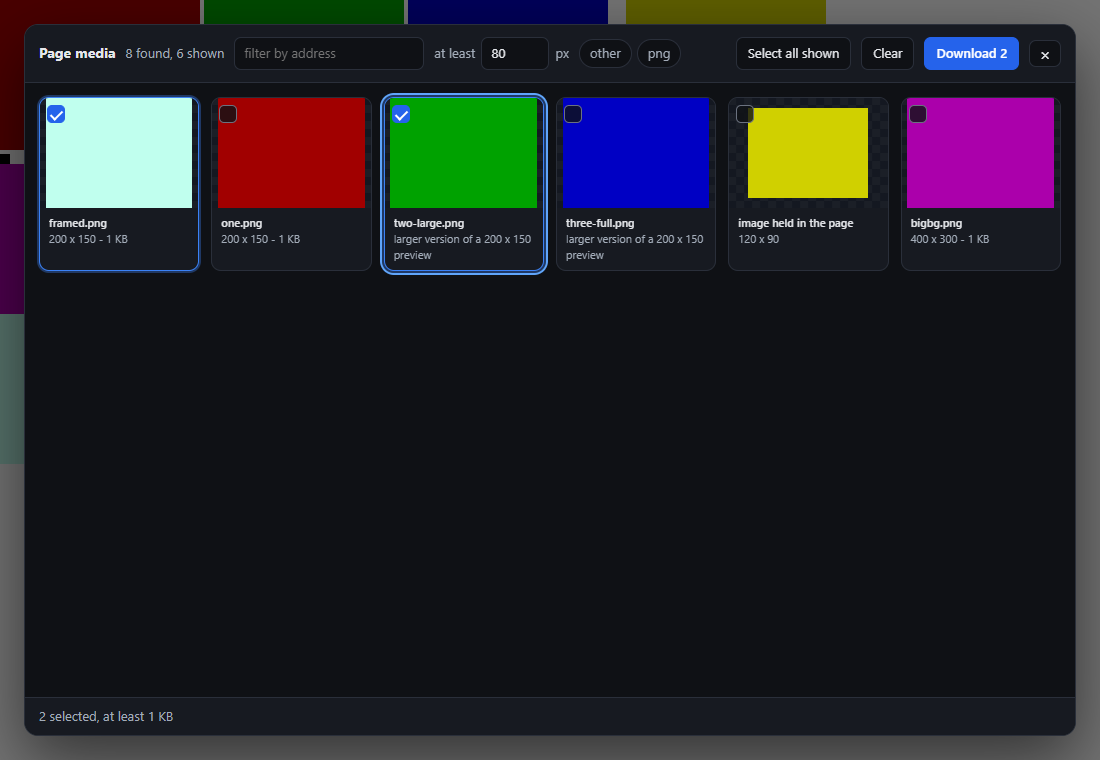
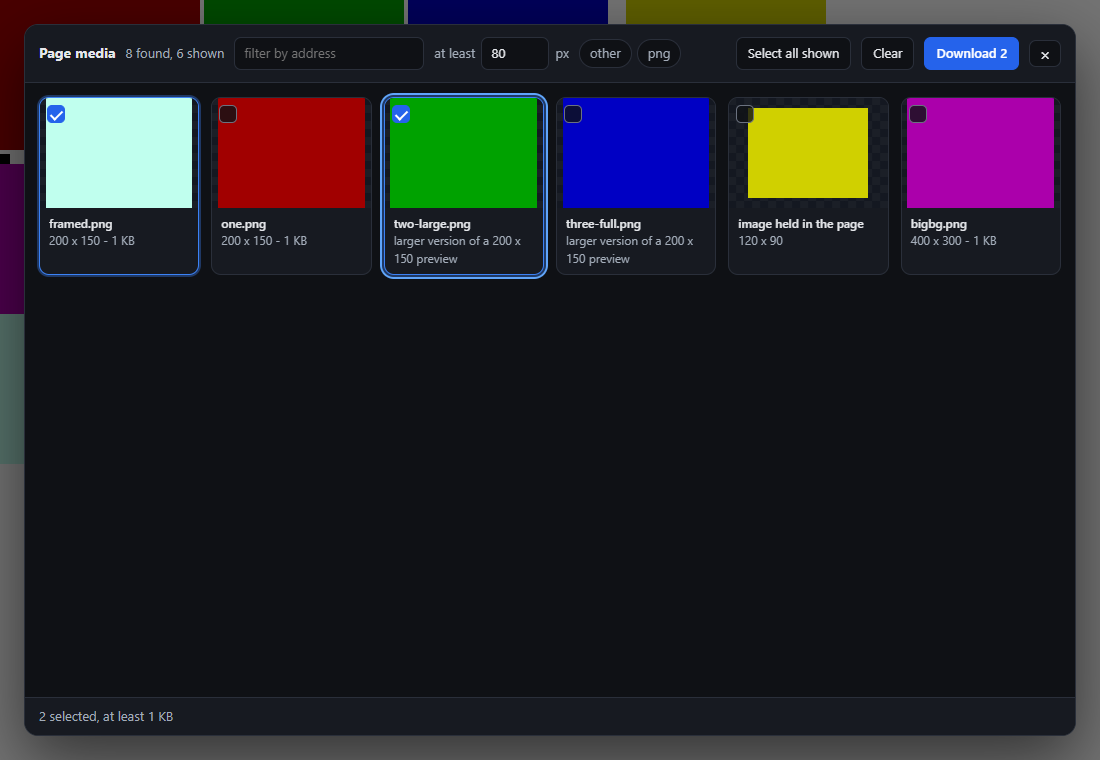
Fix the accessibility findings from a Rams design review
Rams scored the interface 88/100 with six findings, none critical. All six
are fixed and confirmed by its re-check.

- Recent-file buttons in the popup said what they do only in a tooltip. The
  action is now in the accessible name.
- The popup's file and link buttons removed their focus outline and put
  nothing in its place. They have a focus ring.
- The popup switch was labelled "Snaffle is on", which stayed true-sounding
  when it was off. It is a switch named "Snaffle"; the options checkbox reads
  "Enable Snaffle".
- The armed Reset button used a literal white for its text, which is hard to
  read on the lighter red of the dark theme. It takes its colour from the theme.
- Headings in the popup, and captions and badges in the media list, were 11px
  and 10px. Nothing is under 12px now.
- Recorder buttons had no name beyond the shortcut they show. The suggested
  fix, a fixed aria-label, would have replaced that text, and the shortcut is
  the thing a screen-reader user most needs to hear. Each is instead named by
  its trigger's title plus its own text, exposes whether it is recording, and
  the line under it is a live region, so the instructions while recording and
  any warning afterwards are announced.

The popup's cannot-run notice is an alert rather than a polite status, since
it appears with its text already set.

Static checks in the offline suite keep these from returning.

diff --git a/options.html b/options.html
@@ -18,7 +18,7 @@
     <section class="card">
       <label class="row switch">
         <input type="checkbox" id="enabled">
-        <span><strong>Snaffle is on</strong><em>Turn everything off without uninstalling.</em></span>
+        <span><strong>Enable Snaffle</strong><em>Untick to turn everything off without uninstalling.</em></span>
       </label>
     </section>
 
@@ -29,44 +29,44 @@
       <div class="trigger">
         <label class="row switch">
           <input type="checkbox" id="keyEnabled">
-          <span><strong>Save what is under the pointer, by key</strong></span>
+          <span><strong id="keyName">Save what is under the pointer, by key</strong></span>
         </label>
         <div class="recorder">
-          <button type="button" id="keyRec" class="rec" aria-describedby="keyHint">Alt + S</button>
-          <span class="hint" id="keyHint"></span>
+          <button type="button" id="keyRec" class="rec" aria-labelledby="keyName keyRec" aria-describedby="keyHint">Alt + S</button>
+          <span class="hint" id="keyHint" aria-live="polite"></span>
         </div>
       </div>
 
       <div class="trigger">
         <label class="row switch">
           <input type="checkbox" id="mouseEnabled">
-          <span><strong>Save what is under the pointer, by mouse</strong></span>
+          <span><strong id="mouseName">Save what is under the pointer, by mouse</strong></span>
         </label>
         <div class="recorder">
-          <button type="button" id="mouseRec" class="rec" aria-describedby="mouseHint">Alt + Middle click</button>
-          <span class="hint" id="mouseHint"></span>
+          <button type="button" id="mouseRec" class="rec" aria-labelledby="mouseName mouseRec" aria-describedby="mouseHint">Alt + Middle click</button>
+          <span class="hint" id="mouseHint" aria-live="polite"></span>
         </div>
       </div>
 
       <div class="trigger">
         <label class="row switch">
           <input type="checkbox" id="captureEnabled">
-          <span><strong>Screenshot the whole page</strong></span>
+          <span><strong id="captureName">Screenshot the whole page</strong></span>
         </label>
         <div class="recorder">
-          <button type="button" id="captureRec" class="rec" aria-describedby="captureHint">Alt + Shift + S</button>
-          <span class="hint" id="captureHint"></span>
+          <button type="button" id="captureRec" class="rec" aria-labelledby="captureName captureRec" aria-describedby="captureHint">Alt + Shift + S</button>
+          <span class="hint" id="captureHint" aria-live="polite"></span>
         </div>
       </div>
 
       <div class="trigger">
         <label class="row switch">
           <input type="checkbox" id="galleryEnabled">
-          <span><strong>List every image and video on the page</strong></span>
+          <span><strong id="galleryName">List every image and video on the page</strong></span>
         </label>
         <div class="recorder">
-          <button type="button" id="galleryRec" class="rec" aria-describedby="galleryHint">Alt + Shift + I</button>
-          <span class="hint" id="galleryHint"></span>
+          <button type="button" id="galleryRec" class="rec" aria-labelledby="galleryName galleryRec" aria-describedby="galleryHint">Alt + Shift + I</button>
+          <span class="hint" id="galleryHint" aria-live="polite"></span>
         </div>
       </div>
     </section>

diff --git a/test/snaffle.test.js b/test/snaffle.test.js
@@ -318,6 +318,35 @@ const { pdfFromJpeg } = lift('capture.js', 'async function pdfFromJpeg(jpeg, pxW
   });
   eq('default key bindings are distinct', new Set(sigs).size, sigs.length);
 
+  /* ------------------------------------------------------- accessibility */
+
+  // Found by a design review; kept from coming back.
+  const uiCss = ['options.css', 'popup.css', 'gallery.js', 'content.js'].map((x) => [x, read(x)]);
+  eq('no focus outline is removed without a replacement in the same rule',
+    uiCss.flatMap(([file, src]) => (src.match(/[^{}]*\{[^{}]*outline:\s*none[^{}]*\}/g) || [])
+      .filter((rule) => !/outline:\s*\d/.test(rule) && !/box-shadow|background/.test(rule.replace(/outline:\s*none/, '')))
+      .map(() => file)), []);
+  eq('no text is set smaller than 12px',
+    uiCss.flatMap(([file, src]) => (src.match(/font(?:-size)?:[^;}]*?\b(\d+(?:\.\d+)?)px/g) || [])
+      .filter((decl) => parseFloat(/(\d+(?:\.\d+)?)px/.exec(decl)[1]) < 12).map((decl) => file + ': ' + decl.trim())), []);
+
+  const optionsHtml = read('options.html');
+  for (const id of ['key', 'mouse', 'capture', 'gallery']) {
+    // The button's text is the current shortcut, so its name must add what the
+    // shortcut is for rather than replace the text.
+    eq(id + ' recorder is named by its trigger title plus its own text',
+      new RegExp('id="' + id + 'Rec"[^>]*aria-labelledby="' + id + 'Name ' + id + 'Rec"').test(optionsHtml) &&
+      new RegExp('id="' + id + 'Name"').test(optionsHtml) && !new RegExp('id="' + id + 'Rec"[^>]*aria-label=').test(optionsHtml), true);
+    eq(id + ' recorder hint is announced when it changes',
+      new RegExp('id="' + id + 'Hint"[^>]*aria-live="polite"').test(optionsHtml), true);
+  }
+  const popupHtml = read('popup.html');
+  eq('the popup switch has a name that does not assert a state',
+    [/id="enabled"/.test(popupHtml), /role="switch"[^>]*id="enabled"[^>]*aria-label="Snaffle"/.test(popupHtml), /is on"/.test(popupHtml)], [true, true, false]);
+  eq('recent-file buttons say what they do', /setAttribute\('aria-label', 'Show ' \+ name/.test(read('popup.js')), true);
+  eq('theme-coloured buttons take their text colour from the theme',
+    /button\.ghost\.danger\s*\{[^}]*color:\s*var\(--card\)/.test(read('options.css')), true);
+
   // Only the core is in every frame of every page. The screenshot and media
   // list code is loaded into a tab when asked for.
   const manifest = JSON.parse(read('manifest.json'));

diff --git a/popup.css b/popup.css
@@ -76,7 +76,7 @@ code {
 section { margin-bottom: 12px; }
 h2 {
   margin: 0 0 6px;
-  font-size: 11px;
+  font-size: 12px;
   font-weight: 650;
   text-transform: uppercase;
   letter-spacing: 0.07em;
@@ -121,7 +121,8 @@ body.off .keys, body.off .acts { opacity: 0.45; }
   white-space: nowrap; overflow: hidden; text-overflow: ellipsis;
   cursor: pointer;
 }
-.recent .file:hover, .recent .file:focus-visible { background: var(--code); outline: none; }
+.recent .file:hover { background: var(--code); }
+.recent .file:focus-visible { background: var(--code); outline: 2px solid var(--accent); outline-offset: 1px; }
 
 .foot {
   display: flex; flex-direction: column; gap: 6px;
@@ -138,4 +139,5 @@ body.off .keys, body.off .acts { opacity: 0.45; }
   font: inherit; font-weight: 600;
   cursor: pointer;
 }
-.link:hover, .link:focus-visible { text-decoration: underline; outline: none; }
+.link:hover { text-decoration: underline; }
+.link:focus-visible { text-decoration: underline; outline: 2px solid var(--accent); outline-offset: 2px; border-radius: 3px; }

diff --git a/gallery.js b/gallery.js
@@ -179,8 +179,8 @@
       background: repeating-conic-gradient(#1b1f27 0% 25%, #141821 0% 50%) 50% / 16px 16px;
     }
     .thumb img { max-width: 100%; max-height: 110px; display: block; }
-    .meta { padding: 7px 9px; font-size: 11px; color: #a3acb9; }
-    .meta b { display: block; color: #e5e7eb; font-weight: 600; font-size: 11px;
+    .meta { padding: 7px 9px; font-size: 12px; color: #a3acb9; }
+    .meta b { display: block; color: #e5e7eb; font-weight: 600; font-size: 12px;
               white-space: nowrap; overflow: hidden; text-overflow: ellipsis; }
     .tick {
       position: absolute; top: 7px; left: 7px; width: 18px; height: 18px;
@@ -193,7 +193,7 @@
     }
     .badge {
       position: absolute; top: 7px; right: 7px; padding: 1px 6px; border-radius: 999px;
-      background: rgba(15,17,21,.85); font-size: 10px; color: #e5e7eb;
+      background: rgba(15,17,21,.85); font-size: 12px; color: #e5e7eb;
     }
     .card.done .badge.state { background: #065f46; }
     .card.failed .badge.state { background: #7f1d1d; }

diff --git a/options.js b/options.js
@@ -85,10 +85,13 @@ function bindRecorder(t) {
   const btn = $(t.rec);
   const label = () => (t.kind === 'key' ? keyLabel(cfg[t.field]) : mouseLabel(cfg[t.field]));
   let listening = false;
+  // "Pressed" means it is waiting for the keys or the click.
+  btn.setAttribute('aria-pressed', 'false');
 
   const stop = () => {
     listening = false;
     btn.classList.remove('listening');
+    btn.setAttribute('aria-pressed', 'false');
     btn.textContent = label();
     renderHints();
   };
@@ -96,6 +99,7 @@ function bindRecorder(t) {
   const start = () => {
     listening = true;
     btn.classList.add('listening');
+    btn.setAttribute('aria-pressed', 'true');
     btn.textContent = t.kind === 'key' ? 'Press the keys...' : 'Click here with the button...';
     const hint = $(t.hint);
     hint.className = 'hint';

diff --git a/popup.js b/popup.js
@@ -37,6 +37,9 @@ function renderRecent() {
       b.className = 'file';
       const name = String(d.filename).split(/[\\/]/).pop();
       b.textContent = name;
+      // The visible text is only the file name. Say what pressing it does in
+      // the accessible name, which a tooltip alone does not reliably provide.
+      b.setAttribute('aria-label', 'Show ' + name + ' in its folder');
       b.title = 'Show ' + name + ' in its folder';
       b.addEventListener('click', () => chrome.downloads.show(d.id));
       li.appendChild(b);

diff --git a/popup.html b/popup.html
@@ -9,12 +9,12 @@
   <div class="head">
     <h1>Snaffle</h1>
     <label class="toggle" title="Turn Snaffle on or off">
-      <input type="checkbox" id="enabled" aria-label="Snaffle is on">
+      <input type="checkbox" role="switch" id="enabled" aria-label="Snaffle">
       <span class="track"><span class="knob"></span></span>
     </label>
   </div>
 
-  <p class="note" id="note" role="status" hidden></p>
+  <p class="note" id="note" role="alert" hidden></p>
 
   <section>
     <h2>Save what is under the pointer</h2>

diff --git a/options.css b/options.css
@@ -143,4 +143,4 @@ button.ghost {
 button.ghost:hover { color: var(--ink); border-color: var(--accent); }
 button.ghost:focus-visible { outline: 2px solid var(--accent); outline-offset: 1px; }
 button.ghost.small { padding: 7px 12px; font-size: 13px; margin-top: 4px; }
-button.ghost.danger { color: #fff; background: var(--bad); border-color: var(--bad); }
+button.ghost.danger { color: var(--card); background: var(--bad); border-color: var(--bad); }

diff --git a/README.md b/README.md
@@ -209,12 +209,12 @@ pwsh -File tools/make-icons.ps1
 
 ```
 npm install
-npm test              # 102 offline checks, a second or two
+npm test              # 115 offline checks, a second or two
 npm run test:browser  # 76 checks in headless Chromium, about seven minutes; needs ffprobe on the PATH
 node test/browser/shots.js   # retake the screenshots in docs/img
 ```
 
-**Offline checks** cover the pure logic: URL rewriting per site, `srcset` parsing, playlist reading, file naming, config storage and migration, shortcut warnings, content-type verdicts, stream grouping, the PDF writer's byte offsets, and static wiring between the scripts, the manifest and the HTML.
+**Offline checks** cover the pure logic: URL rewriting per site, `srcset` parsing, playlist reading, file naming, config storage and migration, shortcut warnings, content-type verdicts, stream grouping, the PDF writer's byte offsets, static wiring between the scripts, the manifest and the HTML, and a handful of accessibility rules (no focus ring removed without a replacement, no text under 12px, controls named for what they do).
 
 **Browser checks** load the shipped files into headless Chromium and drive them with real pointer and keyboard input against fixture pages served from two local origins. Each result is checked three ways: the toast, Chrome's own download record, and the fixture server's request log. Saved bytes are read back: a rebuilt video is run through `ffprobe` for its tracks, frame count and length, and a screenshot is decoded and sampled. The streams are real ones made with ffmpeg, including split-audio, multi-rendition, MPEG-TS and Referer-guarded variants. The options page, the popup and the media list are driven the way a user would, keyboard included.
 
